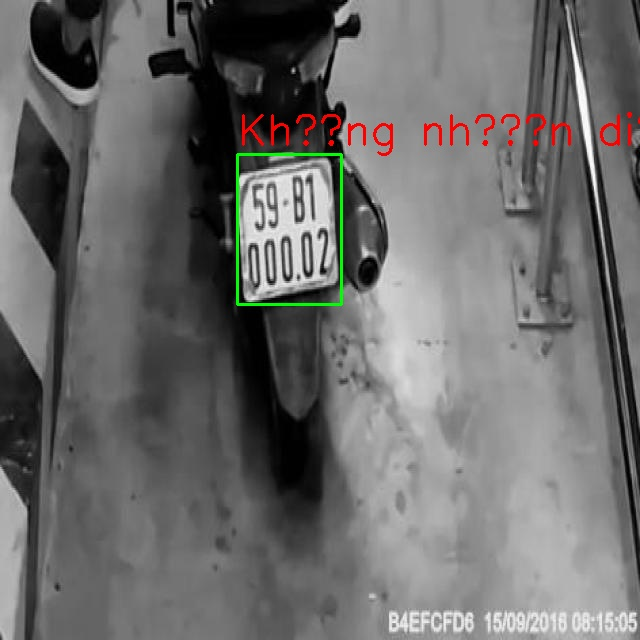
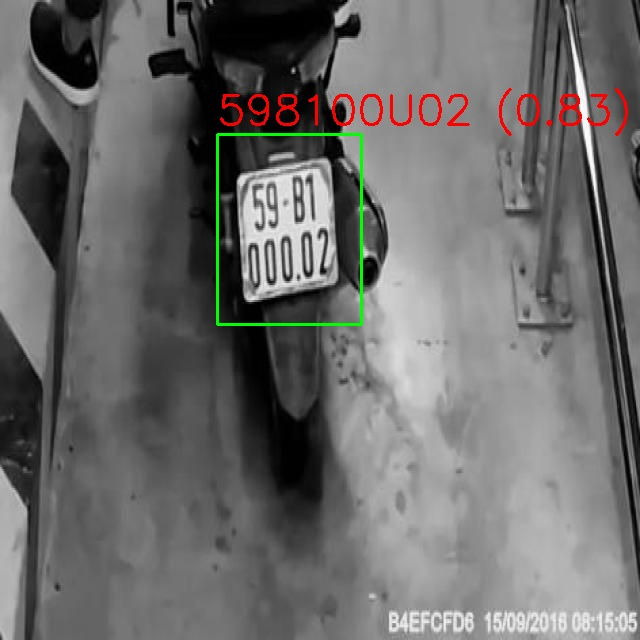
fix v2

Changed region(s): [[0.3438, 0.125, 1.0, 0.5312], [0.3125, 0.2188, 0.375, 0.5]]

diff --git a/src/ocr_processor.py b/src/ocr_processor.py
@@ -6,58 +6,63 @@ from typing import Optional
 
 class VietnameseOCR:
     def __init__(self):
-        # Chỉ dùng tiếng Anh vì biển số không có ký tự tiếng Việt
         self.reader = easyocr.Reader(['en'], gpu=True)
-        # Các pattern để xác thực nếu cần sau này
         self.patterns = [
             r'^[0-9]{2}[A-Z]{1,2}-[0-9]{3,5}$',
             r'^[0-9]{2}[A-Z]{1,2}[0-9]{3,5}$'
         ]
 
     def preprocess_plate_image(self, plate_img: np.ndarray) -> np.ndarray:
-        gray = cv2.cvtColor(plate_img, cv2.COLOR_BGR2GRAY)
-        resized = cv2.resize(gray, None, fx=2.5, fy=2.5, interpolation=cv2.INTER_LINEAR)
-        denoised = cv2.GaussianBlur(resized, (3, 3), 0)
-        _, thresh = cv2.threshold(denoised, 0, 255, cv2.THRESH_BINARY + cv2.THRESH_OTSU)
-        return thresh
+        if len(plate_img.shape) == 3 and plate_img.shape[2] == 3:
+            gray = cv2.cvtColor(plate_img, cv2.COLOR_BGR2GRAY)
+        else:
+            gray = plate_img
+
+        clahe = cv2.createCLAHE(clipLimit=2.0, tileGridSize=(8, 8))
+        enhanced = clahe.apply(gray)
+
+        resized = cv2.resize(enhanced, None, fx=3.0, fy=3.0, interpolation=cv2.INTER_LINEAR)
+        blur = cv2.GaussianBlur(resized, (3, 3), 0)
+        _, binary = cv2.threshold(blur, 0, 255, cv2.THRESH_BINARY + cv2.THRESH_OTSU)
+
+        return binary
 
     def extract_text(self, plate_img: np.ndarray) -> Optional[str]:
         try:
-           processed = self.preprocess_plate_image(plate_img)
-           results = self.reader.readtext(processed)
+            processed = self.preprocess_plate_image(plate_img)
+           
 
-           if not results:
-            return None
+            # Hiển thị để debug nếu cần:
+            # cv2.imshow("Processed OCR", processed)
+            # cv2.waitKey(0)
+            results = self.reader.readtext(processed, allowlist='0123456789ABCDEFGHIJKLMNOPQRSTUVWXYZ-')
 
-            # Sắp xếp theo vị trí y tăng dần (dòng trên trước dòng dưới)
-           sorted_lines = sorted(results, key=lambda x: x[0][0][1])
+            if not results:
+                return None
+            sorted_lines = sorted(results, key=lambda x: x[0][0][1])
+            texts = [line[1] for line in sorted_lines if line[2] > 0.1] 
 
-            # ✅ Lấy 2 dòng có độ tin cậy cao nhất
-           texts = []
-           for line in sorted_lines:
-            if line[2] > 0.4:
-                texts.append(line[1])
-            if len(texts) == 2:
-                break
-            
-           full_text = ' '.join(texts)
-           cleaned = self.clean_text(full_text)
-           print("🔤 Text sau làm sạch:", cleaned)
-           return cleaned if cleaned else None
+            full_text = ' '.join(texts)
+            cleaned = self.clean_text(full_text)
+
+            for pattern in self.patterns:
+                if re.match(pattern, cleaned):
+                    print("Text sau làm sạch:", cleaned)
+                    return cleaned
+
+            return cleaned if cleaned else None
 
         except Exception as e:
             print(f"❌ Lỗi OCR: {e}")
             return None
 
-
     def clean_text(self, text: str) -> str:
-        # Làm sạch ký tự không hợp lệ và chuẩn hóa
         cleaned = re.sub(r'[^A-Z0-9-]', '', text.upper())
         corrections = {
-    'O': '0',  # Biển VN không có chữ 'O'
-    'I': '1',  # Không có 'I'
-    'Q': '0'   # Không có 'Q'
-}
+            'O': '0',
+            'I': '1',
+            'Q': '0'
+        }
         for wrong, correct in corrections.items():
             cleaned = cleaned.replace(wrong, correct)
         return cleaned

diff --git a/data/test/test.py b/data/test/test.py
@@ -1,10 +1,26 @@
 import os
 import yaml
 import sys
-sys.path.append(os.path.abspath(os.path.join(os.path.dirname(__file__), '..', '..')))
 import cv2
+import concurrent.futures
+import time
+
+
+# Thêm thư mục gốc vào sys.path để import module
+sys.path.append(os.path.abspath(os.path.join(os.path.dirname(__file__), '..', '..')))
+
 from src.plate_detector import MotorbikePlateDetector
 from src.preprocessor import ImagePreprocessor
+
+# Hàm hỗ trợ chạy hàm khác có timeout
+def run_with_timeout(func, args=(), timeout=10):
+    with concurrent.futures.ThreadPoolExecutor(max_workers=1) as executor:
+        future = executor.submit(func, *args)
+        try:
+            return future.result(timeout=timeout)
+        except concurrent.futures.TimeoutError:
+            print("[⏱ TIMEOUT] Hàm xử lý mất quá nhiều thời gian và đã bị huỷ.")
+            return None
 
 # Script kiểm tra mô hình trên tập test
 def main():
@@ -20,7 +36,7 @@ def main():
     model_path = paths_config["model_path"]
     confidence_threshold = model_config["confidence_threshold"]
     
-    # Khởi tạo detector
+    # Khởi tạo detector và preprocessor
     detector = MotorbikePlateDetector(model_path, confidence_threshold)
     preprocessor = ImagePreprocessor()
     
@@ -29,20 +45,32 @@ def main():
     output_dir = paths_config["output_path"]
     os.makedirs(output_dir, exist_ok=True)
     
+    def process_image(image_path, detector, output_dir):
+        image = cv2.imread(image_path)
+        if image is None:
+            print(f"Không thể tải ảnh: {image_path}")
+            return
+
+        detections = detector.detect_plates(image)
+        annotated = detector.annotate_image(image, detections)
+        output_path = os.path.join(output_dir, f"annotated_{os.path.basename(image_path)}")
+        cv2.imwrite(output_path, annotated)
+        print(f"Kết quả đã lưu tại: {output_path}")
+ 
+    # Duyệt ảnh
     for image_file in os.listdir(test_images_path):
-        if image_file.endswith((".jpg", ".jpeg", ".png")):
-            image_path = os.path.join(test_images_path, image_file)
-            image = cv2.imread(image_path)
-            if image is None:
-                print(f"Không thể tải ảnh: {image_path}")
-                continue
-            
-            # Phát hiện và ghi chú
-            detections = detector.detect_plates(image)
-            annotated = detector.annotate_image(image, detections)
-            output_path = os.path.join(output_dir, f"annotated_{image_file}")
-            cv2.imwrite(output_path, annotated)
-            print(f"Kết quả đã lưu tại: {output_path}")
+       if image_file.endswith((".jpg", ".jpeg", ".png")):
+        image_path = os.path.join(test_images_path, image_file)
+        try:
+            with concurrent.futures.ThreadPoolExecutor() as executor:
+                future = executor.submit(process_image, image_path, detector, output_dir)
+                future.result(timeout=10)  # ⏰ Giới hạn xử lý mỗi ảnh là 10 giây
+        except concurrent.futures.TimeoutError:
+            print(f"[TIMEOUT] Ảnh {image_file} mất quá nhiều thời gian và đã bị bỏ qua.")
+        except Exception as e:
+            print(f"[ERROR] Lỗi khi xử lý {image_file}: {e}")
+
+
 
 if __name__ == "__main__":
     main()

diff --git a/src/plate_detector.py b/src/plate_detector.py
@@ -4,6 +4,11 @@ from ultralytics import YOLO
 from typing import List, Dict
 from src.ocr_processor import VietnameseOCR
 from src.preprocessor import ImagePreprocessor
+import threading
+import re
+
+def clean_plate_text(text):
+    return re.sub(r'[^A-Z0-9]', '', text.upper())
 
 class MotorbikePlateDetector:
     def __init__(self, model_path: str, confidence_threshold: float = 0.5):
@@ -12,11 +17,24 @@ class MotorbikePlateDetector:
         self.ocr = VietnameseOCR()
         self.preprocessor = ImagePreprocessor()
 
+    def _extract_text_with_timeout(self, plate_img, timeout=5):
+        result = [None]
+        def run_ocr():
+            try:
+                result[0] = self.ocr.extract_text(plate_img)
+            except Exception as e:
+                print(f"[OCR ERROR] {e}")
+
+        thread = threading.Thread(target=run_ocr)
+        thread.start()
+        thread.join(timeout)
+        if thread.is_alive():
+            print("[⏱ TIMEOUT] OCR quá lâu, bỏ qua vùng này.")
+            return None
+        return result[0]
 
     def detect_plates(self, image: np.ndarray) -> List[Dict]:
-        # Tiền xử lý ảnh cho YOLO (chỉ resize + tăng cường)
         processed_image = self.preprocessor.preprocess_for_model(image)
-
         results = self.model.predict(processed_image, conf=self.confidence_threshold)
         detections = []
 
@@ -25,12 +43,21 @@ class MotorbikePlateDetector:
                 x1, y1, x2, y2 = map(int, box.xyxy[0])
                 confidence = float(box.conf[0])
 
-                # Cắt vùng biển số từ ảnh GỐC để giữ độ sắc nét
+                # Tăng padding để giữ đủ thông tin
+                pad = 20
+                x1 = max(x1 - pad, 0)
+                y1 = max(y1 - pad, 0)
+                x2 = min(x2 + pad, image.shape[1])
+                y2 = min(y2 + pad, image.shape[0])
+
                 plate_img = image[y1:y2, x1:x2]
 
-                # OCR nhận diện văn bản
-                plate_text = self.ocr.extract_text(plate_img)
-                if plate_text is None:
+                # Chỉ xử lý ảnh gốc, không tiền xử lý tại đây
+                plate_text = self._extract_text_with_timeout(plate_img, timeout=5)
+
+                if plate_text:
+                    plate_text = clean_plate_text(plate_text)
+                else:
                     print(f"⚠ Không nhận diện được biển số tại vị trí ({x1}, {y1}, {x2}, {y2})")
 
                 detections.append({
@@ -48,8 +75,6 @@ class MotorbikePlateDetector:
             label_text = det['text'] if det['text'] else "Không nhận diện"
             label = f"{label_text} ({det['confidence']:.2f})"
 
-            # Vẽ khung và label
             cv2.rectangle(annotated, (x1, y1), (x2, y2), (0, 255, 0), 2)
-            cv2.putText(annotated, label, (x1, y1 - 10),
-            cv2.FONT_HERSHEY_SIMPLEX, 1.4, (0, 0, 255), 2)
+            cv2.putText(annotated, label, (x1, y1 - 10), cv2.FONT_HERSHEY_SIMPLEX, 1.4, (0, 0, 255), 2)
         return annotated
